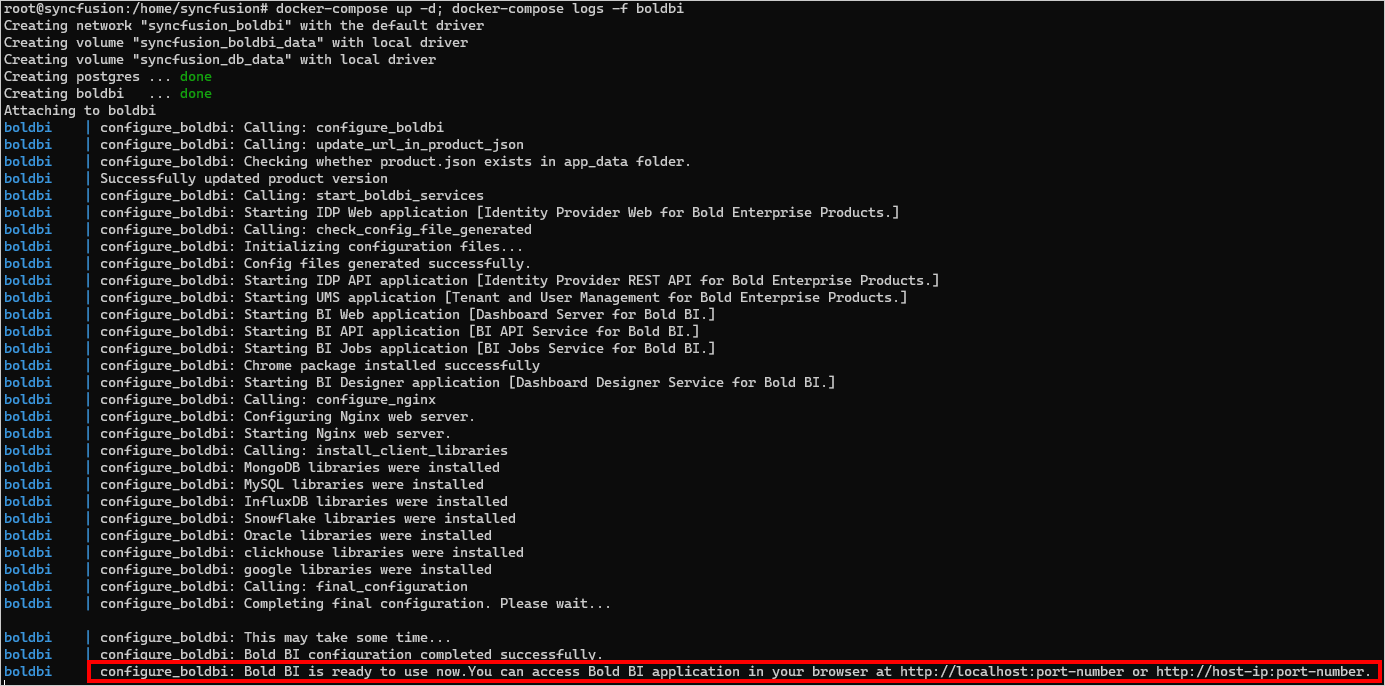
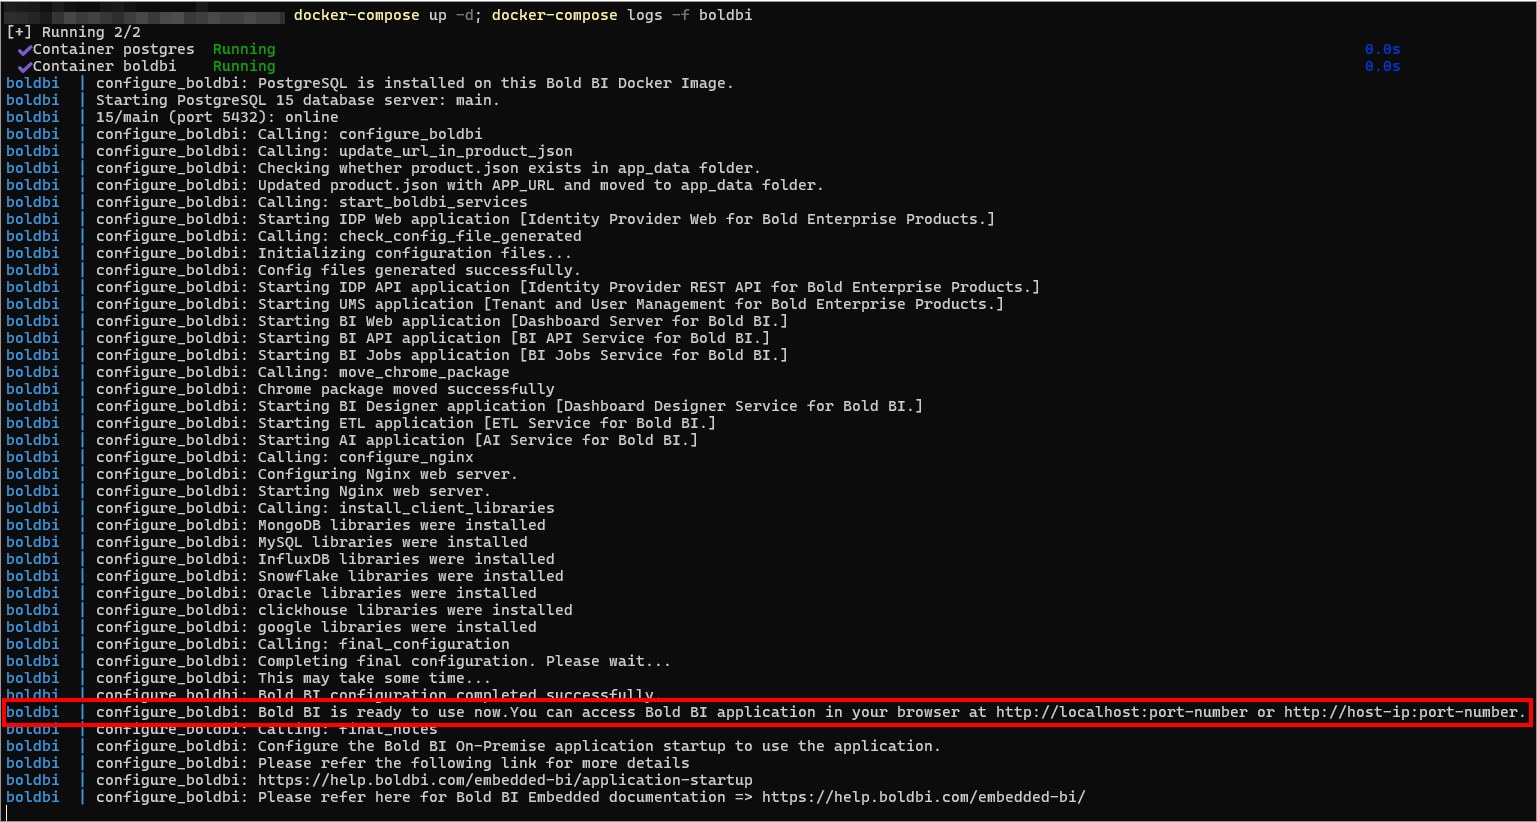
Documentation changes

Changed region(s): [[0.0, 0.0, 1.0, 1.0], [0.8693, 0.0612, 0.9314, 0.0918]]

diff --git a/README.md b/README.md
@@ -52,9 +52,9 @@ The following software requirements are necessary to run the Bold BI Enterprise 
 * Image and PDF exporting is not supported in ARM architecture images of the Ubuntu and Alpine variants.
 * Filesystem and Web connectors are not supported in Bold ETL for Alpine variant images.
 
-# Deploying Bold BI Using Docker Compose
+# Deploying Bold BI Evaluation Image Using Docker Compose
 
-The Bold BI image can be deployed using Docker Compose. In this guide, we will demonstrate how to start the Bold BI application and a PostgreSQL database within a single container using Docker Compose, with volume mounts configured for data persistence.
+The eval tag (11.2.7-eval) is specifically designed to streamline the Bold BI evaluation process by integrating a PostgreSQL server within the Bold BI container. Please note that this image tag is intended for evaluation purposes only and should not be used in production environments. In this guide, we will demonstrate how to deploy the Bold BI evaluation image using Docker Compose, with volume mounts configured for data persistence.
 
 1. Download the Docker Compose file by using the following command.
 
@@ -62,7 +62,7 @@ The Bold BI image can be deployed using Docker Compose. In this guide, we will d
    curl -o docker-compose.yml "https://raw.githubusercontent.com/boldbi/boldbi-docker/main/deploy/single-container-eval-no-license/docker-compose.yml"
    ```
 
-2. Run the command below. This command will start the Bold BI and Postgres SQL containers and display the Bold BI logs to provide information about the installation status of the Bold BI application.
+2. Run the command below. This command will start the Bold BI application container and display the Bold BI container logs, providing information about the installation status of the Bold BI application.
 
    ```sh
    docker-compose up -d; docker-compose logs -f boldbi
@@ -70,12 +70,13 @@ The Bold BI image can be deployed using Docker Compose. In this guide, we will d
 
    ![docker-compose-command](docs/images/docker-compose-up.png)
 
-3. When you open this URL, the application will configure its startup in the background. Within a few seconds, the setup page will appear. You can either activate your license using the available option or try the trial version by selecting the `Proceed with 30 Days Trial` option.
+3. Now, access the Bold BI application by entering the URL as http://localhost:8085 or http://host-ip:8085 in the browser. When you open this URL, the application will configure its startup in the background and display the license activation page below within a few seconds. You can either activate your license using the available option or try the trial version by selecting the Proceed with 30 Days Trial option.
 
+   > Note: The default port number mentioned in the compose file is 8085. If you are making changes to the port number, then you need to use that port number for accessing the Bold BI application.
 
    ![registration-page](docs/images/registration-page.png)
 
-   After selecting the license option, the application will redirect you to the dashboard page.
+   After selecting the license option, the application will redirect you to the dashboard listing page.
 
    ![Dashboard page](docs/images/dashboard-page.png)
 
